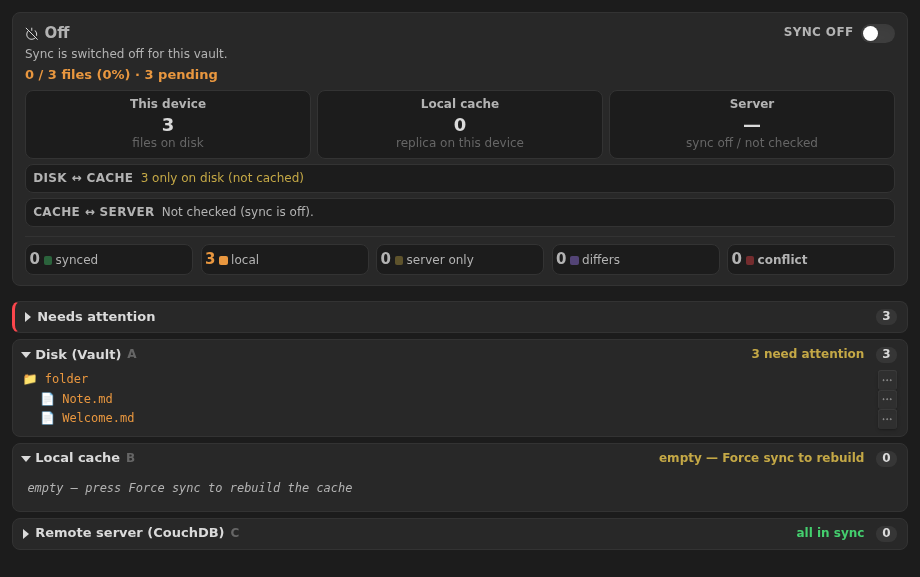
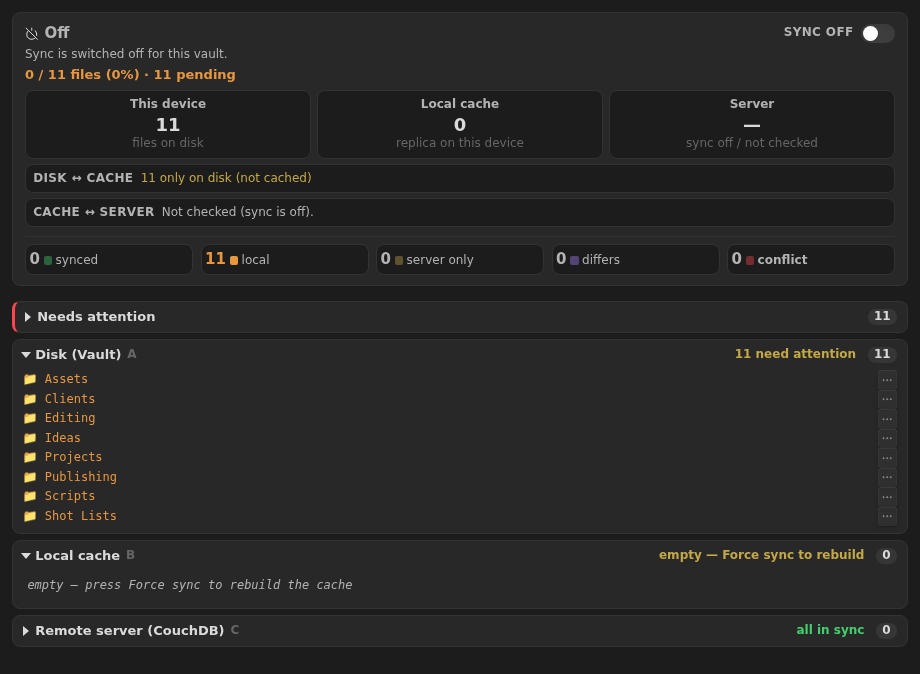
docs: seed a creative video-editing demo vault for the screenshots
The capture prototype now clears the default fixture entries and seeds a realistic
video-editor vault (Projects/Clients/Editing/Shot Lists/Assets/Publishing/…) at
runtime, so the dark-theme desktop + mobile screenshots read like a real workflow.
The committed fixture (e2e/vaults/simple) is untouched — demo files exist only in
the running test instance.

Claude-Session: https://claude.ai/code/session_01Ag5YEu1B5bYSqUhTrdeSn1

diff --git a/e2e/screenshots/capture.e2e.ts b/e2e/screenshots/capture.e2e.ts
@@ -42,7 +42,64 @@ describe("CouchDB Sync — documentation screenshots (prototype)", function () {
 			plugin.settings.syncEnabled = false;
 			plugin.settings.e2eeEnabled = false;
 			await plugin.saveSettings();
-			await plugin.revealStatusView(); // ensures a full-mode panel instance exists
+		}, PLUGIN_ID);
+
+		// Seed a realistic vault for a CREATIVE VIDEO-EDITING Obsidian user, at runtime,
+		// so the screenshots read like a real workflow. This touches only the running
+		// test instance's vault — the committed fixture (e2e/vaults/simple) is untouched.
+		await browser.executeObsidian(async ({ app }) => {
+			const vault = (app as unknown as {
+				vault: {
+					getAbstractFileByPath(p: string): unknown;
+					getRoot(): { children: { name: string }[] };
+					createFolder(p: string): Promise<unknown>;
+					create(p: string, data: string): Promise<unknown>;
+					delete(f: unknown, force?: boolean): Promise<unknown>;
+				};
+			}).vault;
+			// Remove the default fixture entries so the screenshot shows ONLY the
+			// video-editing vault. Hidden folders (e.g. .obsidian) are left in place.
+			for (const child of [...vault.getRoot().children]) {
+				if (!child.name.startsWith(".")) {
+					await vault.delete(child, true).catch(() => undefined);
+				}
+			}
+			const files: Record<string, string> = {
+				"Projects/acme-summer-promo.md":
+					"# ACME — Summer Promo\n\n- Deliverables: 30s hero, 15s + 6s cutdowns, 9:16 reel\n- Timeline: Resolve `ACME_promo_v7`\n- Status: color pass ➜ client review\n",
+				"Projects/travel-vlog-iceland.md":
+					"# Travel Vlog — Iceland\n\n- 4K60 HLG, ~2.1 TB footage\n- Music: licensed (see Assets)\n- Cut: 12:40 ➜ target 9:00\n",
+				"Clients/acme-brand-guidelines.md":
+					"# ACME — Brand Guidelines\n\n- LUT: `ACME_house.cube`\n- Lower-thirds font: Sohne\n- Logo safe-area: 8%\n",
+				"Scripts/product-launch-voiceover.md":
+					"# VO — Product Launch\n\n> \"Meet the camera that keeps up with you...\"\n\n- Runtime: 0:45\n- Talent: Mara (booked Tue)\n",
+				"Shot Lists/wedding-riverside-shotlist.md":
+					"# Shot List — Riverside Wedding\n\n- [ ] Ceremony wide (A-cam)\n- [ ] Ring macro (100mm)\n- [ ] Golden-hour couple B-roll\n- [ ] Drone establishing\n",
+				"Editing/davinci-resolve-shortcuts.md":
+					"# Resolve Shortcuts\n\n- Blade: `B` · Ripple delete: `Shift+Del`\n- Retime: `R` · Dynamic zoom: `Alt+Z`\n- Power grade copy: middle-click node\n",
+				"Editing/color-grading-notes.md":
+					"# Color Notes\n\n- Base: Rec.709 @ 2.4 gamma\n- Skin: keep in the vector line\n- Halation on speculars (subtle)\n",
+				"Assets/music-licenses.md":
+					"# Music Licenses\n\n| Track | Source | License |\n|---|---|---|\n| Neon Drive | Artlist | ✔ commercial |\n| Slow Tide | Musicbed | ✔ per-project |\n",
+				"Assets/broll-inventory.md":
+					"# B-Roll Inventory\n\n- City / night / neon — 37 clips\n- Nature / water — 52 clips\n- Studio / product macro — 21 clips\n",
+				"Publishing/youtube-upload-checklist.md":
+					"# YouTube Upload Checklist\n\n- [ ] Thumbnail (3 A/B variants)\n- [ ] Chapters + end screen\n- [ ] Captions (.srt)\n- [ ] Pinned comment\n",
+				"Ideas/reel-hooks.md":
+					"# Reel Hooks\n\n- \"You're editing this the slow way.\"\n- 3 cuts in the first second\n- Pattern interrupt at 0:07\n",
+			};
+			const folders = new Set(Object.keys(files).map((p) => p.slice(0, p.lastIndexOf("/"))));
+			for (const dir of folders) {
+				if (!vault.getAbstractFileByPath(dir)) await vault.createFolder(dir).catch(() => undefined);
+			}
+			for (const [path, content] of Object.entries(files)) {
+				if (!vault.getAbstractFileByPath(path)) await vault.create(path, content).catch(() => undefined);
+			}
+		});
+
+		await browser.executeObsidian(async ({ app }, id) => {
+			await (app as unknown as { plugins: { plugins: Record<string, { revealStatusView(): Promise<void> }> } })
+				.plugins.plugins[id].revealStatusView(); // ensures a full-mode panel instance exists
 		}, PLUGIN_ID);
 
 		// Force Obsidian's DARK base theme so every screenshot is dark. Use the official

diff --git a/docs/screenshots-research.md b/docs/screenshots-research.md
@@ -19,10 +19,13 @@ and the two images it produced, committed alongside this file:
 |---|---|
 | ![desktop](./screenshots/desktop-panel.png) | ![mobile](./screenshots/mobile-panel.png) |
 
-Both were generated by running the harness in this environment against the committed
-fixture vault — the real `IndexPanel`, real Obsidian 1.13.4, no hand-editing. The
-prototype forces Obsidian's **dark base theme** before shooting, so every screenshot is
-dark (see `before()` in `capture.e2e.ts`).
+Both were generated by running the harness in this environment — the real `IndexPanel`,
+real Obsidian 1.13.4, no hand-editing. The prototype forces Obsidian's **dark base
+theme** and seeds a realistic **creative video-editing** demo vault at runtime
+(Projects / Clients / Editing / Shot Lists / Assets / Publishing …) so the shots read
+like a real workflow. The committed fixture (`e2e/vaults/simple`) is left untouched —
+the demo files live only in the running test instance (see `before()` in
+`capture.e2e.ts`).
 
 ---
 
